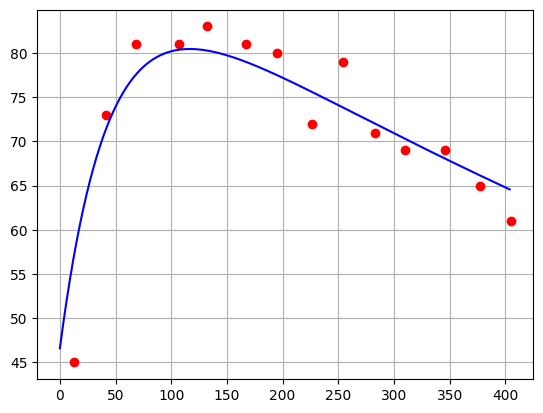
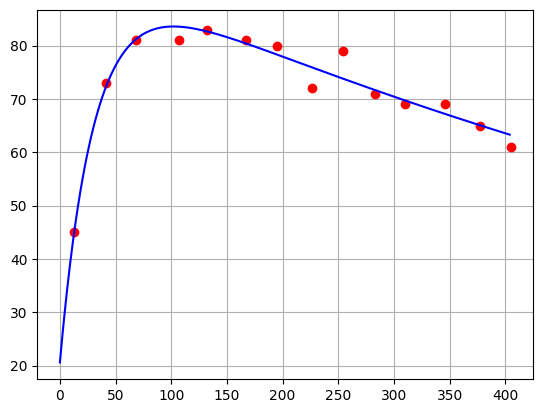
minimization comparison

diff --git a/explore_methods.py b/explore_methods.py
@@ -1,0 +1,77 @@
+import numpy as np
+import pandas as pd
+import matplotlib.pyplot as plt
+from scipy.optimize import curve_fit
+import seaborn as sns
+from milkbot.formulas import ecm_milk, milkbot_, cov2corr
+
+out = open("explore_minimization_methods.md", "w")
+
+print("# Explore Minimization Methods for Milkbot Estimation Applied to ECM", file=out)
+
+df = pd.read_csv("docs/example1.csv")
+df['ECM_RAW'] = df.apply(lambda x: ecm_milk(x.MILK, x.PCTF, x.PCTP), axis=1)
+meas_error = np.ones(len(df))
+early = np.where(df['DIM'] < 60)[0]
+meas_error[early] = 1.5
+
+
+par_init = np.array([90.0, 100.0, -15.0, 0.002])
+bounds = (
+    [0., 0., -1000., 0.], 
+    [200., 100., 1000., 0.01]
+    )
+dim = np.arange(500)
+
+plt.plot(df.DIM, df.ECM_RAW, 'ro', label='data')
+
+print("## Unconstrained Optimization: Levenberg-Marquardt Algorithm", file=out)
+popt, pcovlm, infodict, mesg, ier = curve_fit(milkbot_, df.DIM, df.ECM_RAW, p0=par_init, sigma=meas_error, full_output=True)
+print("\n- Milkbot Parameter Estimates a=%5.3f, b=%5.3f, c=%5.3f, d=%5.3f" % tuple(popt), file=out)
+print("\n- Error Correlation Matrix", file=out)
+print("\n![Error Correlations LM](docs/ecm_error_correlations_LM.png)", file=out)
+
+print("\n- Initial Parameters:", par_init, file=out)
+print("\n- Function Evaluations:", infodict['nfev'], file=out)
+print("\n- Convergence Message", mesg, file=out)
+print("\n- Return Status", ier, file=out)
+
+plt.plot(dim, milkbot_(dim, *popt), 'g-',
+         label='LM Fit: a=%5.3f, b=%5.3f, c=%5.3f, d=%5.3f' % tuple(popt))
+
+print("## Constrained Optimization: Trust Region Reflective Algorithm", file=out)
+popt, pcovbnd = curve_fit(milkbot_, df.DIM, df.ECM_RAW, p0=par_init, sigma=meas_error, bounds=bounds)
+print("\n- Milkbot Parameter Estimates a=%5.3f, b=%5.3f, c=%5.3f, d=%5.3f" % tuple(popt), file=out)
+print("\n- Error Correlation Matrix", file=out)
+print("\n![Error Correlations LM](docs/ecm_error_correlations_BND.png)", file=out)
+print("\n- Initial Parameters:    ", par_init, file=out)
+print("\n- Parameter Lower Bounds:", bounds[0], file=out)
+print("\n- Parameter Upper Bounds:", bounds[1], file=out)
+
+
+plt.plot(dim, milkbot_(dim, *popt), 'b:',
+         label='Bounded Fit: a=%5.3f, b=%5.3f, c=%5.3f, d=%5.3f' % tuple(popt))
+
+plt.legend()
+plt.grid()
+plt.title("Estimating ECM Using Unbounded and Bounded Minimization")
+plt.savefig('docs/ecm_estimation.png', bbox_inches='tight')
+plt.close()
+
+print("## Comparison", file=out)
+print("\n![ECM v DIM](./docs/ecm_estimation.png)", file=out)
+
+
+plt.figure(figsize=(4,3))
+sns.heatmap(cov2corr(pcovlm), fmt='.1g', annot=True)
+plt.savefig('docs/ecm_error_correlations_LM.png', bbox_inches='tight')
+plt.close()
+
+
+plt.figure(figsize=(4,3))
+sns.heatmap(cov2corr(pcovbnd), fmt='.1g', annot=True)
+plt.savefig('docs/ecm_error_correlations_BND.png', bbox_inches='tight')
+plt.close()
+
+
+out.close()

diff --git a/robustness_analysis.py b/robustness_analysis.py
@@ -1,0 +1,77 @@
+import numpy as np
+import pandas as pd
+import matplotlib.pyplot as plt
+from scipy.optimize import curve_fit
+import seaborn as sns
+from milkbot.formulas import ecm_milk, milkbot_, cov2corr
+
+out = open("explore_minimization_methods.md", "w")
+
+print("# Explore Minimization Methods for Milkbot Estimation Applied to ECM", file=out)
+
+df = pd.read_csv("docs/example1.csv")
+df['ECM_RAW'] = df.apply(lambda x: ecm_milk(x.MILK, x.PCTF, x.PCTP), axis=1)
+meas_error = np.ones(len(df))
+early = np.where(df['DIM'] < 60)[0]
+meas_error[early] = 1.5
+
+
+par_init = np.array([90.0, 100.0, -15.0, 0.002])
+bounds = (
+    [0., 0., -1000., 0.], 
+    [200., 100., 1000., 0.01]
+    )
+dim = np.arange(500)
+
+plt.plot(df.DIM, df.ECM_RAW, 'ro', label='data')
+
+print("## Unconstrained Optimization: Levenberg-Marquardt Algorithm", file=out)
+popt, pcovlm, infodict, mesg, ier = curve_fit(milkbot_, df.DIM, df.ECM_RAW, p0=par_init, sigma=meas_error, full_output=True)
+print("\n- Milkbot Parameter Estimates a=%5.3f, b=%5.3f, c=%5.3f, d=%5.3f" % tuple(popt), file=out)
+print("\n- Error Correlation Matrix", file=out)
+print("\n![Error Correlations LM](docs/ecm_error_correlations_LM.png)", file=out)
+
+print("\n- Initial Parameters:", par_init, file=out)
+print("\n- Function Evaluations:", infodict['nfev'], file=out)
+print("\n- Convergence Message", mesg, file=out)
+print("\n- Return Status", ier, file=out)
+
+plt.plot(dim, milkbot_(dim, *popt), 'g-',
+         label='LM Fit: a=%5.3f, b=%5.3f, c=%5.3f, d=%5.3f' % tuple(popt))
+
+print("## Constrained Optimization: Trust Region Reflective Algorithm", file=out)
+popt, pcovbnd = curve_fit(milkbot_, df.DIM, df.ECM_RAW, p0=par_init, sigma=meas_error, bounds=bounds)
+print("\n- Milkbot Parameter Estimates a=%5.3f, b=%5.3f, c=%5.3f, d=%5.3f" % tuple(popt), file=out)
+print("\n- Error Correlation Matrix", file=out)
+print("\n![Error Correlations LM](docs/ecm_error_correlations_BND.png)", file=out)
+print("\n- Initial Parameters:    ", par_init, file=out)
+print("\n- Parameter Lower Bounds:", bounds[0], file=out)
+print("\n- Parameter Upper Bounds:", bounds[1], file=out)
+
+
+plt.plot(dim, milkbot_(dim, *popt), 'b:',
+         label='Bounded Fit: a=%5.3f, b=%5.3f, c=%5.3f, d=%5.3f' % tuple(popt))
+
+plt.legend()
+plt.grid()
+plt.title("Estimating ECM Using Unbounded and Bounded Minimization")
+plt.savefig('docs/ecm_estimation.png', bbox_inches='tight')
+plt.close()
+
+print("## Comparison", file=out)
+print("\n![ECM v DIM](./docs/ecm_estimation.png)", file=out)
+
+
+plt.figure(figsize=(4,3))
+sns.heatmap(cov2corr(pcovlm), fmt='.1g', annot=True)
+plt.savefig('docs/ecm_error_correlations_LM.png', bbox_inches='tight')
+plt.close()
+
+
+plt.figure(figsize=(4,3))
+sns.heatmap(cov2corr(pcovbnd), fmt='.1g', annot=True)
+plt.savefig('docs/ecm_error_correlations_BND.png', bbox_inches='tight')
+plt.close()
+
+
+out.close()

diff --git a/ecm_estimation.py b/ecm_estimation.py
@@ -2,8 +2,8 @@ import numpy as np
 import matplotlib.pyplot as plt
 import pandas as pd
 from sklearn.linear_model import LinearRegression
-from milkbot.mse_min import milkbot_solution, milkbot_solution_b
-from milkbot.formulas import milkbot, ecm_milk
+from scipy.optimize import curve_fit
+from milkbot.formulas import ecm_milk, milkbot_
 
 df = pd.read_csv("docs/example1.csv")
 
@@ -24,8 +24,8 @@ plt.close()
 
 # Plot MILK v DIM
 dim = np.arange(df['DIM'].max())
-soln = milkbot_solution(df['MILK'], df['DIM'])
-milk_est = milkbot(soln.x, dim)
+soln, _ = curve_fit(milkbot_, df.DIM, df.MILK, p0=np.array([85.0, 50, -90, 0.0009]))
+milk_est = milkbot_(dim, *soln)
 plt.plot(df['DIM'],df['MILK'],'ro')
 plt.plot(dim,milk_est,'b-')
 plt.grid()
@@ -34,14 +34,12 @@ plt.close()
 
 # Plot ECM v DIM
 df['ECM_RAW'] = df.apply(lambda x: ecm_milk(x.MILK, x.PCTF, x.PCTP), axis=1)
-par_init = np.array([85.0, 50, -90, 0.0009])
-est_bounds = [(0.0, None), (0.0, None), (None, 0.0), (0.0, None)]
-ecm_raw_soln = milkbot_solution(df['MILK'], df['DIM'], bounds=est_bounds, par_init=par_init)
-print(ecm_raw_soln)
-ecm_raw_est = milkbot(ecm_raw_soln.x, dim)
+ecm_raw_soln, _ = curve_fit(milkbot_, df.DIM, df.ECM_RAW, 
+                            p0=np.array([df['ECM_RAW'].max(), 50, -90, 0.0009]))
+ecm_raw_est = milkbot_(dim, *ecm_raw_soln)
 df['ECM'] = df.apply(lambda x: ecm_milk(x.MILK, x.PCTF_EST, x.PCTP_EST), axis=1)
-ecm_soln = milkbot_solution(df['ECM'], df['DIM'])
-ecm_est = milkbot(ecm_soln.x, dim)
+ecm_soln, _ = curve_fit(milkbot_, df.DIM, df.ECM, p0=np.array([df['ECM'].max(), 50, -90, 0.0009]))
+ecm_est = milkbot_(dim, *ecm_soln)
 fig, (ax1, ax2) = plt.subplots(1, 2, figsize=(8, 4), sharey=True)
 ax1.plot(df['DIM'],df['ECM_RAW'],'ko',label='ECM_RAW')
 ax2.plot(df['DIM'],df['ECM'],'bo',label='ECM')

diff --git a/run_example.py b/run_example.py
@@ -1,22 +1,36 @@
 import pandas as pd
 import numpy as np
 import timeit
-from milkbot.mse_min import milkbot_solution
+from milkbot.formulas import milkbot_
+from scipy.optimize import curve_fit
+from sklearn.metrics import mean_squared_error
+
+setup_string = """
+import pandas as pd;
+import numpy as np;
+from milkbot.formulas import milkbot_;
+from scipy.optimize import curve_fit;
+par_init = np.array([90.0, 25.0, 15.0, 0.001]);
+df = pd.read_csv('docs/example1.csv');
+"""
 
 nrep = 10
 times = timeit.repeat(
-    "milkbot_solution(df['MILK'], df['DIM'])", 
-    setup="from milkbot.mse_min import milkbot_solution; import pandas; df = pandas.read_csv('docs/example1.csv')",
+    "curve_fit(milkbot_, df.DIM, df.MILK, p0=par_init, full_output=True)", 
+    setup=setup_string,
     number=nrep, 
     repeat=5
     )
 
 df = pd.read_csv("docs/example1.csv")
-soln = milkbot_solution(df['MILK'], df['DIM'])
+par_init = np.array([90.0, 25.0, 15.0, 0.001])
+popt, pcov, infodict, mesg, ier = curve_fit(milkbot_, df.DIM, df.MILK, p0=par_init, full_output=True)
+milk_pred = milkbot_(df.DIM, *popt)
+mse = mean_squared_error(df.MILK, milk_pred)
 
 print("Estimation Using the MilkBot Formula")
-print(pd.DataFrame([soln.x], columns=list('abcd'), index=['Example 1']))
-print("Estimation Optimal MSE: {:.3f}".format(soln.fun))
-print("Solution Status = {} / Convergence = {} / No of Evaluations = {}".format(
-    soln.status,soln.success,soln.nfev))
+print(pd.DataFrame([popt], columns=list('abcd'), index=['Example 1']))
+print("Estimation Optimal MSE: {:.3f}".format(mse))
+print("Convergence Message:",mesg)
+print("Solution Status = {}\nNo of Evaluations = {}".format(ier,infodict['nfev']))
 print("Evaluation Time = {:.1f} msec".format(np.mean(times)*1000/nrep))

diff --git a/milkbot/formulas.py b/milkbot/formulas.py
@@ -1,10 +1,21 @@
 import numpy as np
 
-# Milkbot Formula
+# Milkbot Formula Using Numpy Array
 def milkbot(par: np.array, DIM: np.array):
     a, b, c, d = par
     return a * (1 - np.exp((c - DIM)/b)/2) * np.exp(-d*DIM)
 
+# Milkbot Formula
+def milkbot_(t, a, b, c, d):
+    return a * (1 - np.exp((c - t)/b)/2) * np.exp(-d*t)
+
 # International ECM correction equation
 # ECM milk = (milk production * (0.383 * % fat + 0.242 * % protein + 0.7832) / 3.1138)
 ecm_milk = lambda milk, pctf, pctp: milk * (0.383 * pctf + 0.242 * pctp + 0.7832) / 3.1138
+
+# Covariance to Correlation Matrix
+def cov2corr(covmat):
+    S = np.array(covmat)
+    diag = np.sqrt(np.diag(np.diag(S)))
+    gaid = np.linalg.inv(diag)
+    return gaid @ S @ gaid

diff --git a/explore_minimization_methods.md b/explore_minimization_methods.md
@@ -1,0 +1,33 @@
+# Explore Minimization Methods for Milkbot Estimation Applied to ECM
+## Unconstrained Optimization: Levenberg-Marquardt Algorithm
+
+- Milkbot Parameter Estimates a=82.742, b=174.166, c=-183.389, d=0.001
+
+- Error Correlation Matrix
+
+![Error Correlations LM](docs/ecm_error_correlations_LM.png)
+
+- Initial Parameters: [ 9.0e+01  1.0e+02 -1.5e+01  2.0e-03]
+
+- Function Evaluations: 56
+
+- Convergence Message Both actual and predicted relative reductions in the sum of squares
+  are at most 0.000000
+
+- Return Status 1
+## Constrained Optimization: Trust Region Reflective Algorithm
+
+- Milkbot Parameter Estimates a=76.961, b=100.000, c=-144.894, d=0.001
+
+- Error Correlation Matrix
+
+![Error Correlations LM](docs/ecm_error_correlations_BND.png)
+
+- Initial Parameters:     [ 9.0e+01  1.0e+02 -1.5e+01  2.0e-03]
+
+- Parameter Lower Bounds: [0.0, 0.0, -1000.0, 0.0]
+
+- Parameter Upper Bounds: [200.0, 100.0, 1000.0, 0.01]
+## Comparison
+
+![ECM v DIM](./docs/ecm_estimation.png)

diff --git a/README.md b/README.md
@@ -1,17 +1,6 @@
-# MILKBOT FORMULA ESTIMATION APPLIED TO ENERGY CORRECTED MILK
+# Estimation of Energy Corrected Milk
 
-## Milkbot Formula Applied to Raw Milk
+## Background
 
-![Raw Milk v DIM](./docs/milk_by_dim.png)
-
-## Percent Fat and Percent Protein Is Volatile
-
-![PCTF and PCTP v DIM](./docs/pctf_pctp_by_dim.png)
-
-In particular, note the exceedingly high value for PCTF early on in the lactation period.
-
-## Milkbot Formula Applied to ECM
-
-Compare ECM calculated using Raw PCTF and PCTP versus ECM calculated using smoothed PCTF and PCTP.
-
-![ECM v DIM](./docs/ecm_raw_by_dim.png)
+- [Comparing Raw Milk Estimation to ECM Estimation](raw_milk_v_ecm_estimation.md)
+- [Comparing Curve Fitting Approaches](explore_minimization_methods.md)

diff --git a/raw_milk_v_ecm_estimation.md b/raw_milk_v_ecm_estimation.md
@@ -1,0 +1,17 @@
+# MILKBOT FORMULA ESTIMATION APPLIED TO ENERGY CORRECTED MILK
+
+## Milkbot Formula Applied to Raw Milk
+
+![Raw Milk v DIM](./docs/milk_by_dim.png)
+
+## Percent Fat and Percent Protein Is Volatile
+
+![PCTF and PCTP v DIM](./docs/pctf_pctp_by_dim.png)
+
+In particular, note the exceedingly high value for PCTF early on in the lactation period.
+
+## Milkbot Formula Applied to ECM
+
+Compare ECM calculated using Raw PCTF and PCTP versus ECM calculated using smoothed PCTF and PCTP.
+
+![ECM v DIM](./docs/ecm_raw_by_dim.png)
